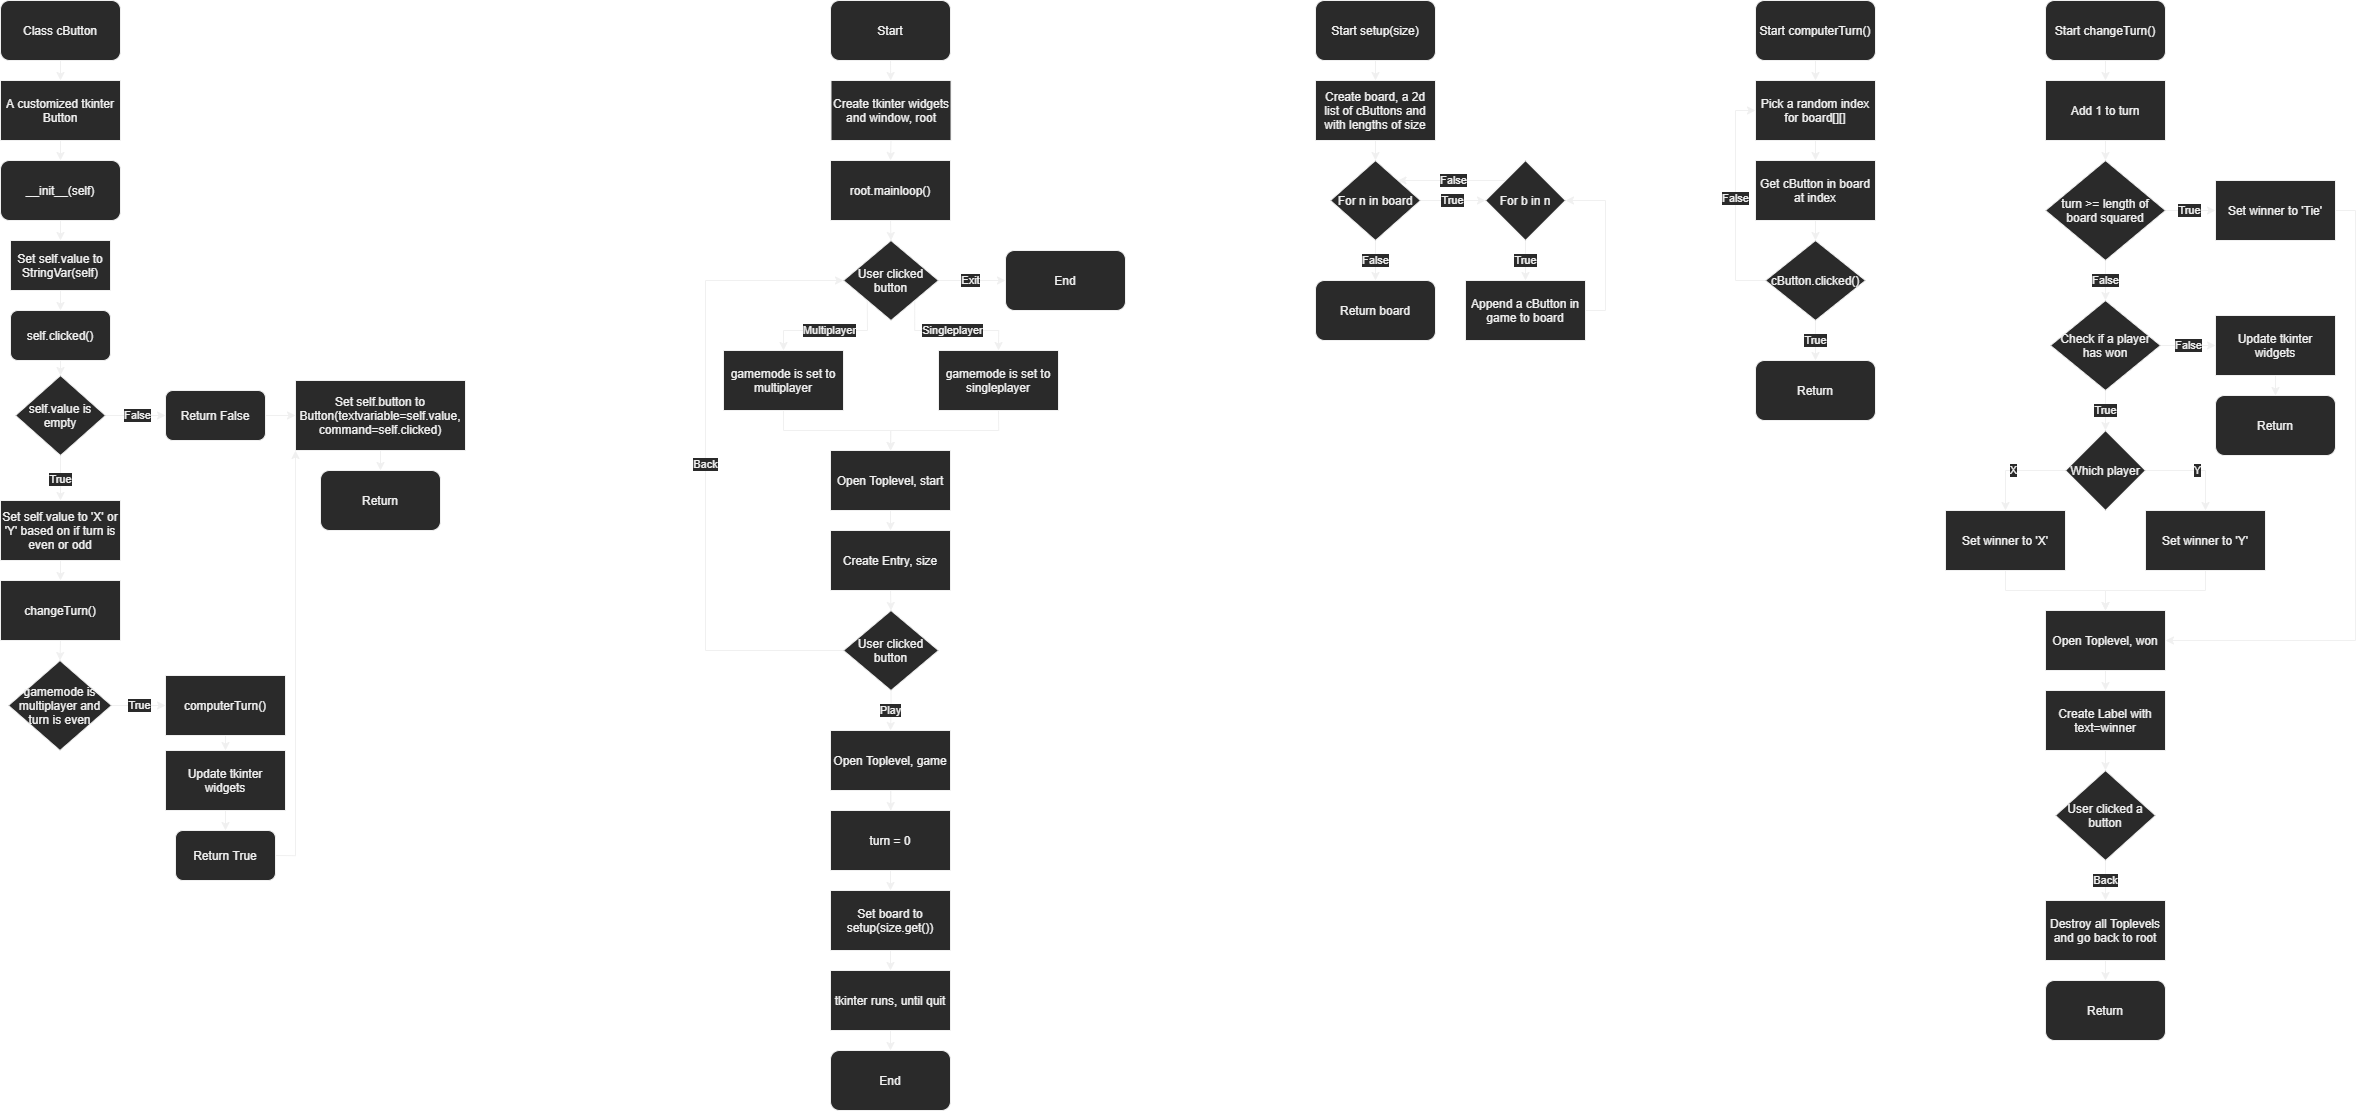
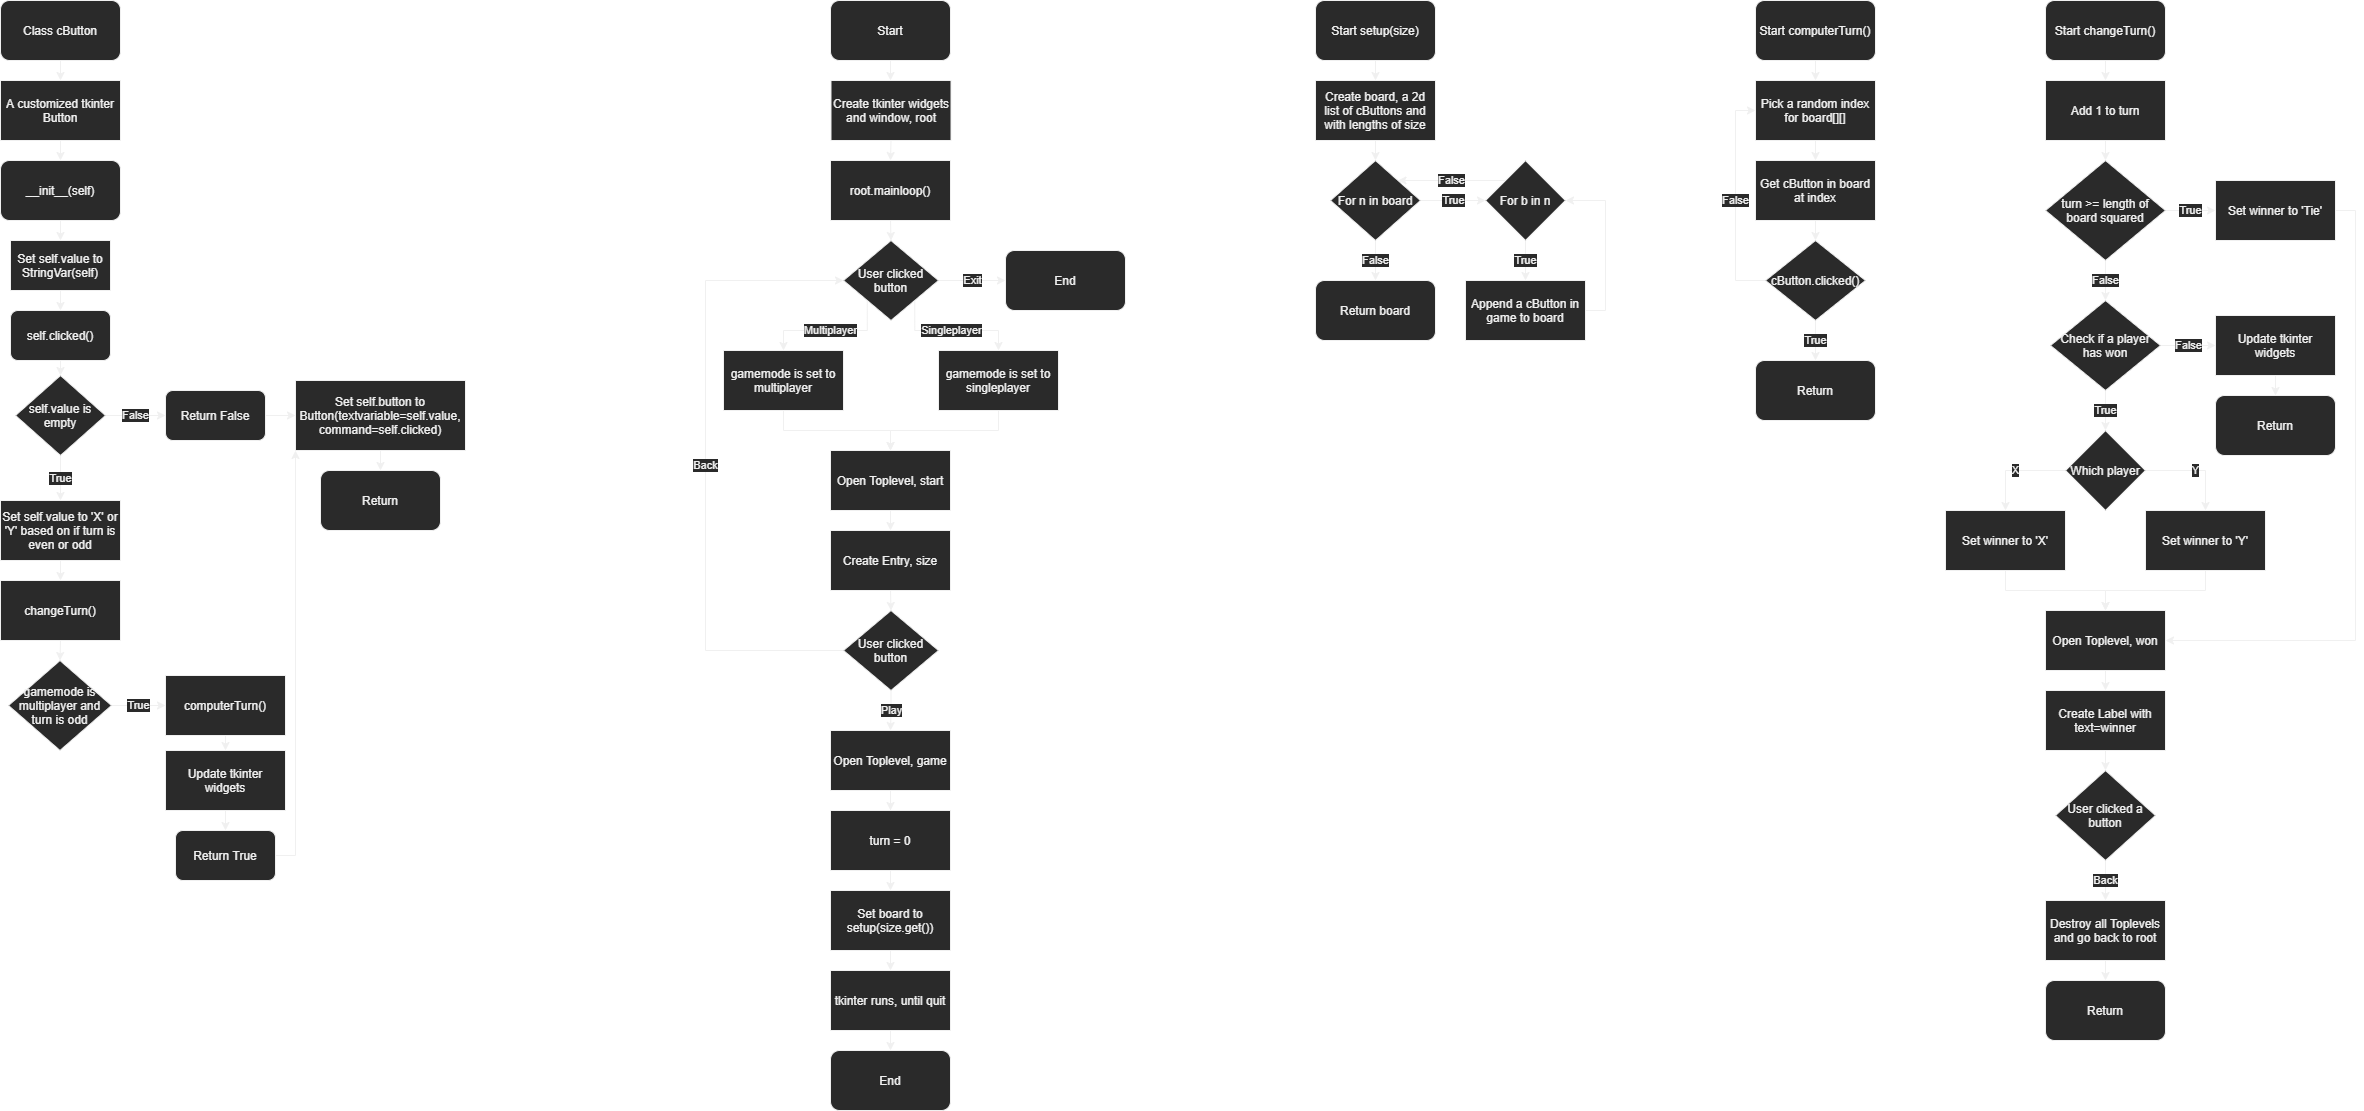
code

diff --git a/main.py b/main.py
@@ -2,3 +2,84 @@
 # GUI Tic Tac Toe
 # 9/9-/2012
 
+from tkinter import *
+
+
+class cButton:
+    def __init__(self, parent):
+        self.value = StringVar()
+
+        def clicked():
+            if self.value.get():
+                return False
+            else:
+                self.value = 'X' if turn % 2 == 0 else 'Y'
+                changeTurn()
+                if mode and turn % 2 != 0:
+                    computerTurn()
+                    # todo update tkinter widgets
+                    return True
+
+        self.button = Button(parent, textvariable=self.value, command=clicked)
+
+
+def changeTurn():
+    # todo
+    pass
+
+
+def computerTurn():
+    # todo
+    pass
+
+
+def openStart():
+    root.withdraw()
+
+    start = Toplevel(root)
+    # start.title('todo') details
+
+    size = IntVar(start)  # empty? root?
+    Entry(start, textvariable=size).grid()  # todo set limits of 3 - 9, odd?
+
+    def play():
+        openGame(size.get)
+        start.destroy()
+    Button(start, text='Start game', command=play).grid()
+
+    def back():
+        root.deiconify()
+        start.destroy()
+    Button(start, text='Back to menu', command=back).grid()
+
+
+def openGame(size):
+    root.withdraw()
+
+    game = Toplevel(root)
+    # game.title('todo') details, add widgets
+
+    # setup
+    board = [[cButton(game) for _ in range(3)] for __ in range(3)]  # global?
+
+
+if __name__ == '__main__':
+    turn = 0  # IntVar?
+    mode = False  # true is multiplayer
+
+    root = Tk()
+    root.title('Noughts and Crosses')
+    # root.config(bg='#todo') styling widgets
+    # todo add the details
+    # Label().grid() todo extra widgets and grid
+
+    def begin(m):
+        global mode
+        mode = m
+        openStart()
+    Button(root, text='Single player', command=lambda: begin(False)).grid()
+    Button(root, text='Multiplayer', command=lambda: begin(True)).grid()
+
+    Button(root, text='Exit', command=root.destroy).grid()
+
+    root.mainloop()
